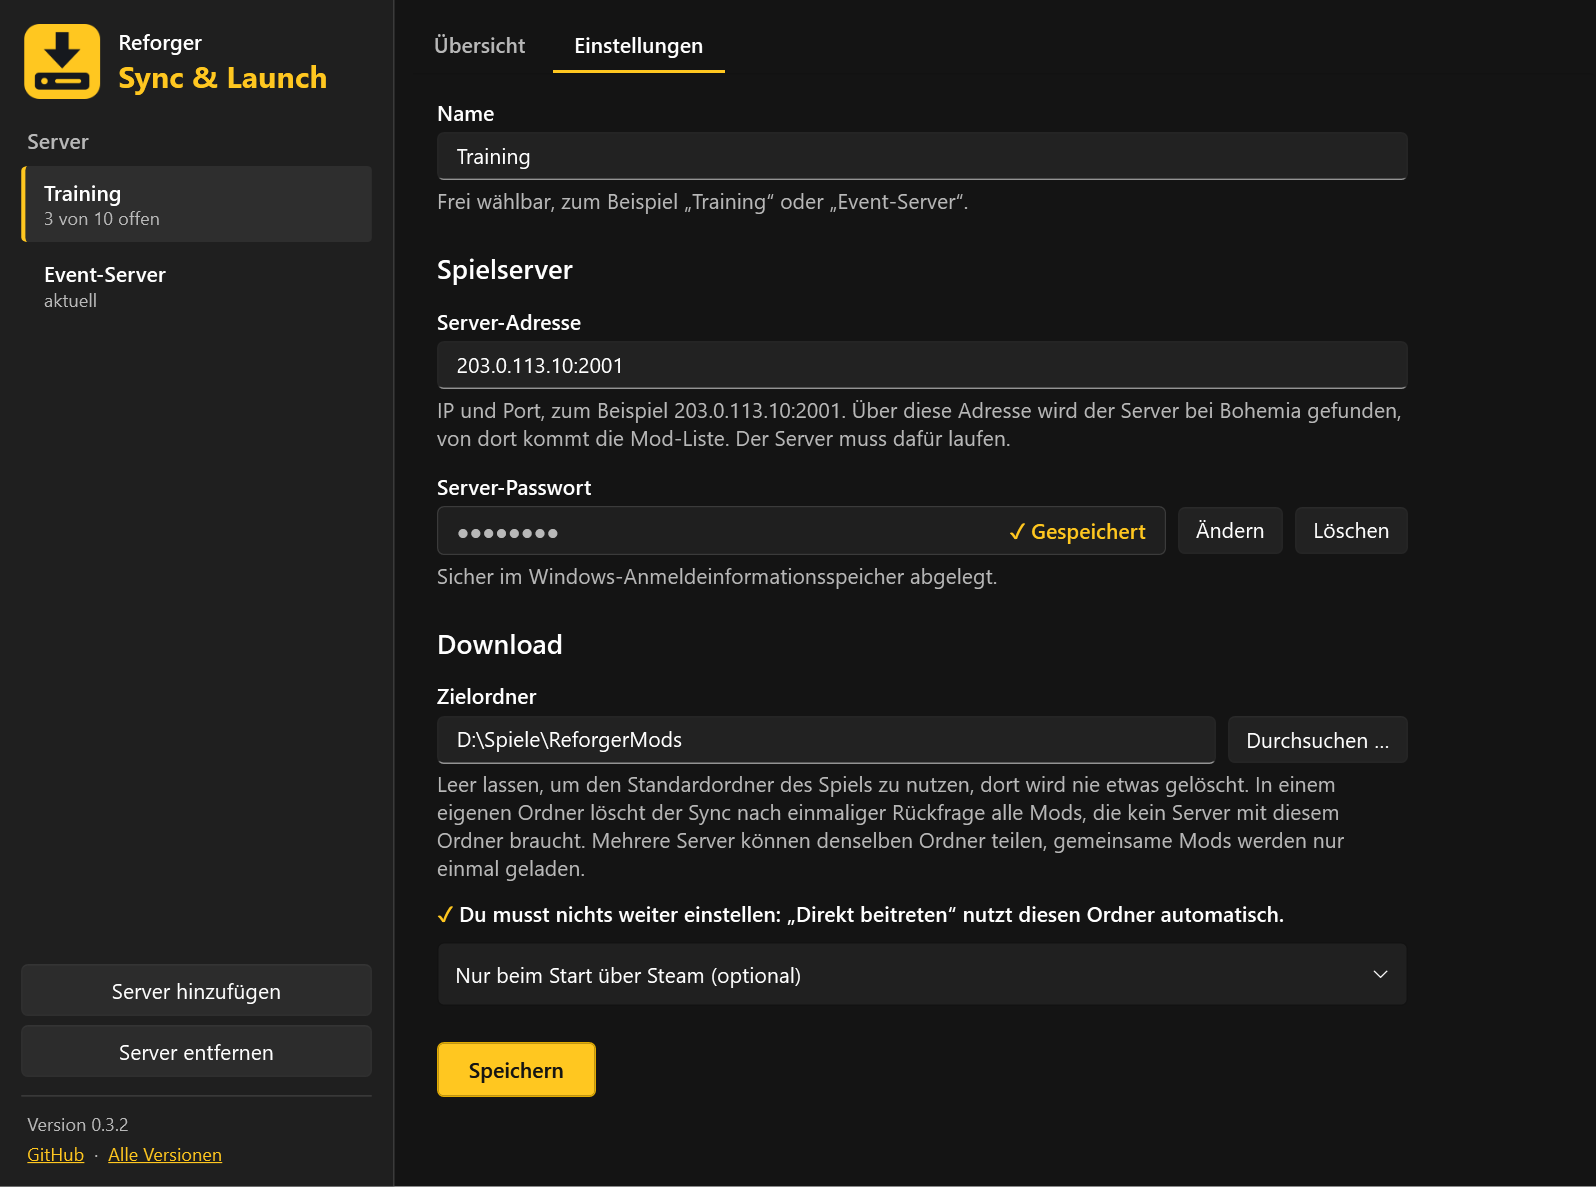
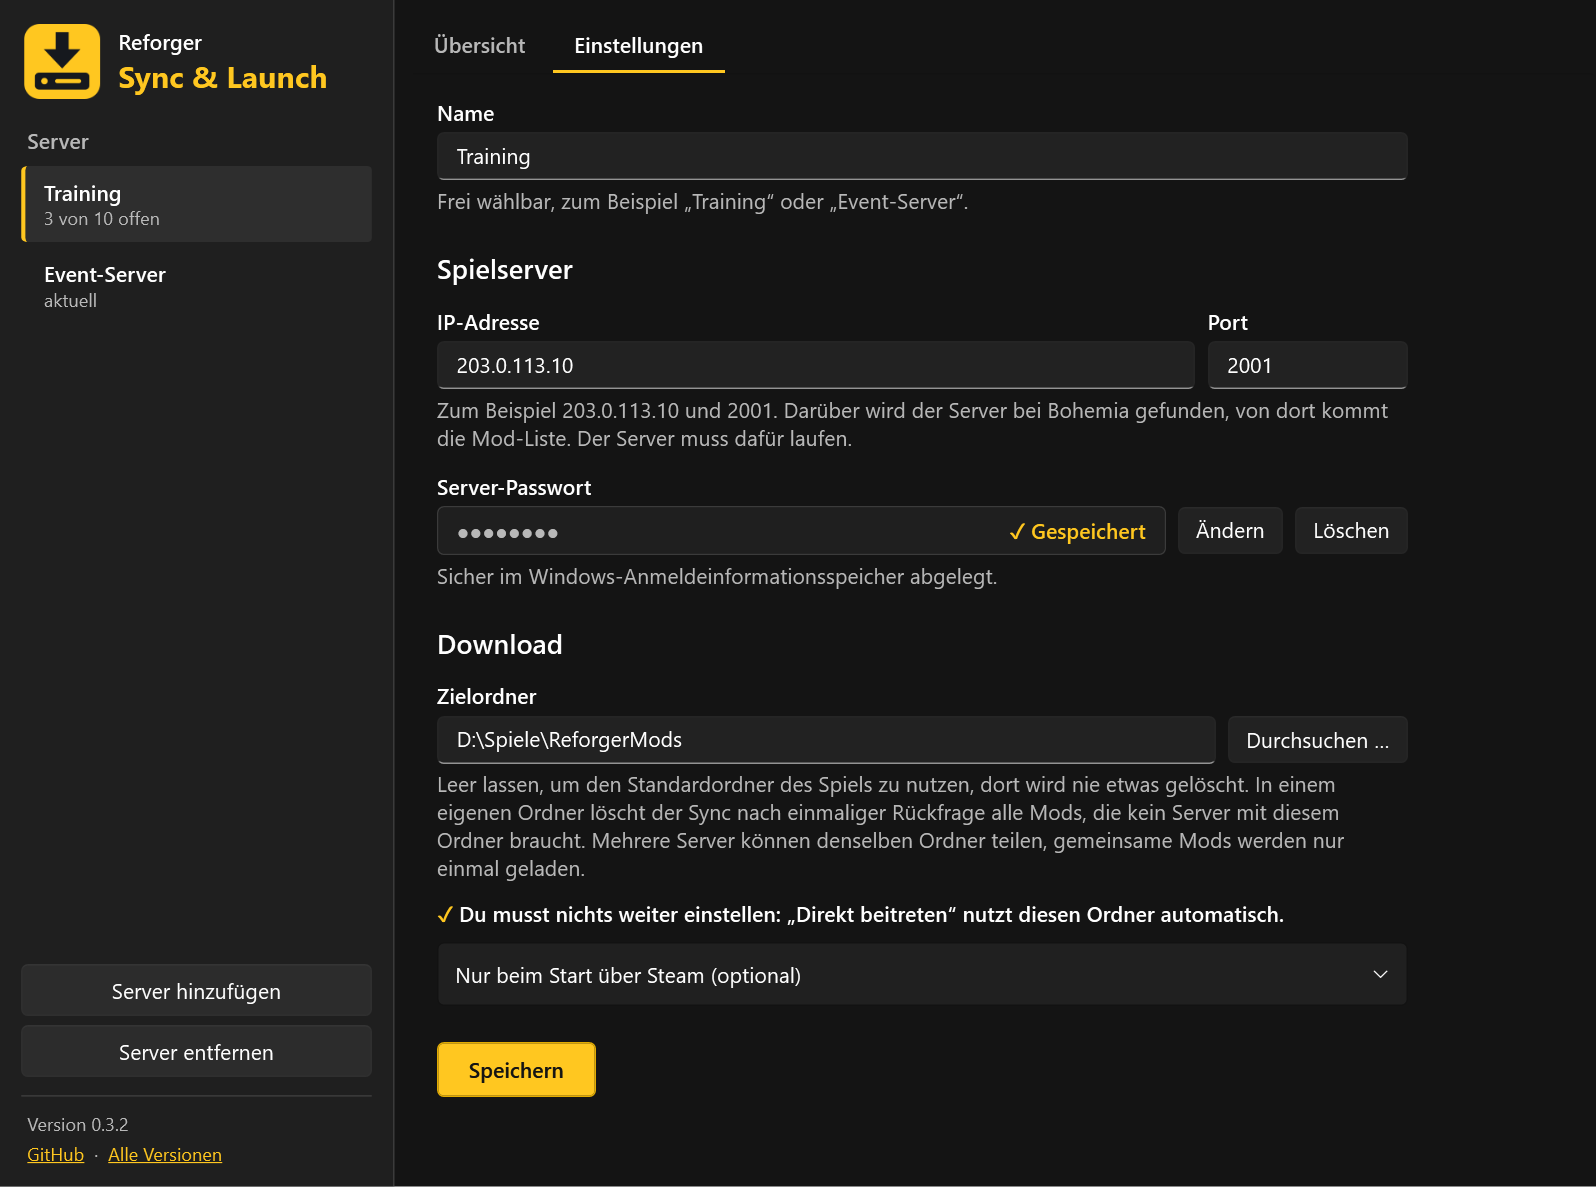
Einstellungen: IP-Adresse und Port in getrennten Feldern
Das Portfeld nimmt nur Ziffern an, IP:Port am Stück wird auf beide Felder
verteilt. Die Prüfung verlangt jetzt eine echte IPv4-Adresse und einen Port
von 1 bis 65535. Gespeichert wird weiter IP:Port, daran hängt das Passwort.

Changed region(s): [[0.2763, 0.3429, 0.8904, 0.3741], [0.2763, 0.2494, 0.3684, 0.2805], [0.7675, 0.2805, 0.7982, 0.3117]]

diff --git a/src/ReforgerModSync.App/MainWindow.xaml b/src/ReforgerModSync.App/MainWindow.xaml
@@ -235,9 +235,23 @@
                         <TextBlock Text="Frei wählbar, zum Beispiel „Training“ oder „Event-Server“." Style="{StaticResource Hint}" />
 
                         <TextBlock Text="Spielserver" Style="{StaticResource SectionTitle}" Margin="0,24,0,0" />
-                        <TextBlock Text="Server-Adresse" Style="{StaticResource FieldLabel}" />
-                        <TextBox Text="{Binding ServerAddress, UpdateSourceTrigger=PropertyChanged}" />
-                        <TextBlock Text="IP und Port, zum Beispiel 203.0.113.10:2001. Über diese Adresse wird der Server bei Bohemia gefunden, von dort kommt die Mod-Liste. Der Server muss dafür laufen." Style="{StaticResource Hint}" />
+                        <Grid>
+                            <Grid.ColumnDefinitions>
+                                <ColumnDefinition Width="*" />
+                                <ColumnDefinition Width="140" />
+                            </Grid.ColumnDefinitions>
+                            <StackPanel>
+                                <TextBlock Text="IP-Adresse" Style="{StaticResource FieldLabel}" />
+                                <TextBox Text="{Binding ServerIp, UpdateSourceTrigger=PropertyChanged}"
+                                         PreviewTextInput="OnIpTextInput" AutomationProperties.Name="IP-Adresse" />
+                            </StackPanel>
+                            <StackPanel Grid.Column="1" Margin="8,0,0,0">
+                                <TextBlock Text="Port" Style="{StaticResource FieldLabel}" />
+                                <TextBox x:Name="PortInput" Text="{Binding ServerPort, UpdateSourceTrigger=PropertyChanged}" MaxLength="5"
+                                         PreviewTextInput="OnPortTextInput" AutomationProperties.Name="Port" />
+                            </StackPanel>
+                        </Grid>
+                        <TextBlock Text="Zum Beispiel 203.0.113.10 und 2001. Darüber wird der Server bei Bohemia gefunden, von dort kommt die Mod-Liste. Der Server muss dafür laufen." Style="{StaticResource Hint}" />
 
                         <TextBlock Text="Server-Passwort" Style="{StaticResource FieldLabel}" />
                         <!-- Die Punkte sind reine Anzeige: feste Anzahl, nichts vom echten Passwort, nie in der Eingabe. -->

diff --git a/tests/ReforgerModSync.Core.Tests/ClientTests.cs b/tests/ReforgerModSync.Core.Tests/ClientTests.cs
@@ -173,8 +173,79 @@ public class ClientTests
     [InlineData("203.0.113.10", false)]
     [InlineData("", false)]
     [InlineData(null, false)]
+    [InlineData("999.1.1.1:2001", false)]
+    [InlineData("203.0.113.10:70000", false)]
+    [InlineData("203.0.113.10:0", false)]
+    [InlineData("203.0.113.10:", false)]
+    [InlineData(":2001", false)]
     public void Server_address_needs_ip_and_port(string? address, bool valid) =>
         Assert.Equal(valid, ClientArgsBuilder.IsValidServerAddress(address));
+
+    [Theory]
+    [InlineData("0.0.0.0", true)]
+    [InlineData("255.255.255.255", true)]
+    [InlineData(" 203.0.113.10 ", true)]
+    [InlineData("256.1.1.1", false)]
+    [InlineData("1.2.3", false)]
+    [InlineData("1.2.3.4.5", false)]
+    [InlineData("01.2.3.4", false)]
+    [InlineData("server.example.org", false)]
+    [InlineData("", false)]
+    [InlineData(null, false)]
+    public void Ip_must_be_a_real_ipv4_address(string? ip, bool valid) =>
+        Assert.Equal(valid, ClientArgsBuilder.IsValidIp(ip));
+
+    [Theory]
+    [InlineData("1", true)]
+    [InlineData("2001", true)]
+    [InlineData("65535", true)]
+    [InlineData("0", false)]
+    [InlineData("65536", false)]
+    [InlineData("abc", false)]
+    [InlineData("", false)]
+    [InlineData(null, false)]
+    public void Port_must_be_in_range(string? port, bool valid) =>
+        Assert.Equal(valid, ClientArgsBuilder.IsValidPort(port));
+
+    [Theory]
+    [InlineData("203.0.113.10:2001", "203.0.113.10", "2001")]
+    [InlineData(" 203.0.113.10:2001 ", "203.0.113.10", "2001")]
+    [InlineData("203.0.113.10", "203.0.113.10", "")]
+    [InlineData("203.0.113.10:", "203.0.113.10", "")]
+    [InlineData("", "", "")]
+    [InlineData(null, "", "")]
+    public void Splits_address_for_the_input_fields(string? address, string ip, string port) =>
+        Assert.Equal((ip, port), ClientArgsBuilder.SplitServerAddress(address));
+
+    [Theory]
+    [InlineData("203.0.113.10", "2001", "203.0.113.10:2001")]
+    [InlineData(" 203.0.113.10 ", " 2001 ", "203.0.113.10:2001")]
+    [InlineData("203.0.113.10", "02001", "203.0.113.10:2001")]
+    [InlineData("203.0.113.10", "", "203.0.113.10:")]
+    [InlineData("", "", null)]
+    [InlineData(null, null, null)]
+    public void Combines_fields_to_the_stored_address(string? ip, string? port, string? expected) =>
+        Assert.Equal(expected, ClientArgsBuilder.CombineServerAddress(ip, port));
+
+    [Theory]
+    [InlineData("203.0.113.10:2001")]
+    [InlineData("1.1.1.1:65535")]
+    public void Split_and_combine_keep_a_saved_address_unchanged(string address)
+    {
+        // Das Passwort hängt an diesem Wert. Ändert er sich beim Laden, ginge die Zuordnung verloren.
+        var (ip, port) = ClientArgsBuilder.SplitServerAddress(address);
+        Assert.Equal(address, ClientArgsBuilder.CombineServerAddress(ip, port));
+    }
+
+    [Theory]
+    [InlineData("2001", "2001")]
+    [InlineData("20x01 ", "2001")]
+    [InlineData("abc", "")]
+    [InlineData("123456789", "12345")]
+    [InlineData("", "")]
+    [InlineData(null, "")]
+    public void Port_field_keeps_only_digits(string? input, string expected) =>
+        Assert.Equal(expected, ClientArgsBuilder.CleanPortInput(input));
 
     private static void AssertValue(IReadOnlyList<string> args, string name, string value) =>
         Assert.Equal(value, args[args.ToList().IndexOf(name) + 1]);

diff --git a/src/ReforgerModSync.Core/Client/ClientArgsBuilder.cs b/src/ReforgerModSync.Core/Client/ClientArgsBuilder.cs
@@ -70,8 +70,45 @@ public static partial class ClientArgsBuilder
         string.Join(' ', arguments.Select(argument => argument.Contains(' ') ? $"\"{argument}\"" : argument));
 
     /// <summary>Nur IP und Port: Ein Hostname wird im Backend nicht gefunden.</summary>
-    public static bool IsValidServerAddress(string? address) =>
-        address is not null && ServerAddressRegex().IsMatch(address.Trim());
+    public static bool IsValidServerAddress(string? address)
+    {
+        var (ip, port) = SplitServerAddress(address);
+        return IsValidIp(ip) && IsValidPort(port);
+    }
+
+    public static bool IsValidIp(string? ip) =>
+        ip is not null && IpRegex().IsMatch(ip.Trim());
+
+    public static bool IsValidPort(string? port) =>
+        int.TryParse(port?.Trim(), out var number) && number is >= 1 and <= 65535;
+
+    /// <summary>Zerlegt <c>IP:Port</c> für die Eingabefelder. Ohne Doppelpunkt ist der Port leer.</summary>
+    public static (string Ip, string Port) SplitServerAddress(string? address)
+    {
+        var text = address?.Trim() ?? "";
+        var separator = text.LastIndexOf(':');
+        return separator < 0 ? (text, "") : (text[..separator].Trim(), text[(separator + 1)..].Trim());
+    }
+
+    /// <summary>Gespeichert wird immer <c>IP:Port</c>, daran hängt auch das Passwort. <c>null</c>: beide Felder leer.</summary>
+    public static string? CombineServerAddress(string? ip, string? port)
+    {
+        var cleanIp = ip?.Trim() ?? "";
+        var cleanPort = port?.Trim() ?? "";
+        if (cleanIp.Length == 0 && cleanPort.Length == 0)
+        {
+            return null;
+        }
+
+        return $"{cleanIp}:{(int.TryParse(cleanPort, out var number) ? number.ToString() : cleanPort)}";
+    }
+
+    /// <summary>Lässt im Portfeld nur Ziffern zu, auch beim Einfügen, und höchstens die fünf eines gültigen Ports.</summary>
+    public static string CleanPortInput(string? input)
+    {
+        var digits = new string((input ?? "").Where(char.IsAsciiDigit).ToArray());
+        return digits.Length > 5 ? digits[..5] : digits;
+    }
 
     /// <summary>
     /// Ein eigenes Profil lässt die Einstellungen des Spielers unberührt, ändert aber auch den
@@ -103,6 +140,6 @@ public static partial class ClientArgsBuilder
         ];
     }
 
-    [GeneratedRegex(@"^(\d{1,3}\.){3}\d{1,3}:\d{1,5}$")]
-    private static partial Regex ServerAddressRegex();
+    [GeneratedRegex(@"^((25[0-5]|2[0-4]\d|1\d\d|[1-9]?\d)\.){3}(25[0-5]|2[0-4]\d|1\d\d|[1-9]?\d)$")]
+    private static partial Regex IpRegex();
 }

diff --git a/src/ReforgerModSync.App/ProfileViewModel.cs b/src/ReforgerModSync.App/ProfileViewModel.cs
@@ -22,7 +22,7 @@ public sealed partial class ProfileViewModel : ObservableObject
         Id = saved?.Id ?? Guid.NewGuid().ToString("N");
         Saved = saved is null ? null : saved with { DownloadDir = AddonPaths.NormalizeDownloadDir(saved.DownloadDir) };
         _name = saved?.Name ?? "";
-        _serverAddress = saved?.ServerAddress ?? "";
+        (_serverIp, _serverPort) = ClientArgsBuilder.SplitServerAddress(saved?.ServerAddress);
         _downloadDir = Saved?.DownloadDir ?? "";
     }
 
@@ -35,7 +35,43 @@ public sealed partial class ProfileViewModel : ObservableObject
     [NotifyPropertyChangedFor(nameof(DisplayName))]
     private string _name;
 
-    [ObservableProperty] private string _serverAddress;
+    [ObservableProperty]
+    [NotifyPropertyChangedFor(nameof(ServerAddress))]
+    private string _serverIp;
+
+    [ObservableProperty]
+    [NotifyPropertyChangedFor(nameof(ServerAddress))]
+    private string _serverPort;
+
+    public string ServerAddress => ClientArgsBuilder.CombineServerAddress(ServerIp, ServerPort) ?? "";
+
+    /// <summary>Wer die Adresse am Stück als <c>IP:Port</c> einfügt, bekommt sie auf beide Felder verteilt.</summary>
+    partial void OnServerIpChanged(string value)
+    {
+        var clean = new string(value.Where(character => !char.IsWhiteSpace(character)).ToArray());
+        if (clean.Contains(':'))
+        {
+            var (ip, port) = ClientArgsBuilder.SplitServerAddress(clean);
+            ServerIp = ip;
+            if (port.Length > 0)
+            {
+                ServerPort = port;
+            }
+        }
+        else if (clean != value)
+        {
+            ServerIp = clean;
+        }
+    }
+
+    partial void OnServerPortChanged(string value)
+    {
+        var clean = ClientArgsBuilder.CleanPortInput(value);
+        if (clean != value)
+        {
+            ServerPort = clean;
+        }
+    }
 
     [ObservableProperty]
     [NotifyPropertyChangedFor(nameof(SteamLaunchOptions), nameof(HasDownloadDir), nameof(DownloadDirDisplay))]
@@ -91,7 +127,7 @@ public sealed partial class ProfileViewModel : ObservableObject
     {
         Id = Id,
         Name = Name.Trim(),
-        ServerAddress = string.IsNullOrWhiteSpace(ServerAddress) ? null : ServerAddress.Trim(),
+        ServerAddress = ClientArgsBuilder.CombineServerAddress(ServerIp, ServerPort),
         DownloadDir = AddonPaths.NormalizeDownloadDir(DownloadDir),
     };
 }

diff --git a/src/ReforgerModSync.App/MainWindow.xaml.cs b/src/ReforgerModSync.App/MainWindow.xaml.cs
@@ -3,6 +3,7 @@ using System.Diagnostics;
 using System.IO;
 using System.Windows;
 using System.Windows.Controls;
+using System.Windows.Input;
 using System.Windows.Threading;
 using Microsoft.Win32;
 using ReforgerModSync.Core;
@@ -71,6 +72,23 @@ public partial class MainWindow : Window
             button.IsEnabled = true;
         }
     }
+
+    /// <summary>Wer aus Gewohnheit <c>IP:Port</c> tippt, landet mit dem Doppelpunkt im Portfeld.</summary>
+    private void OnIpTextInput(object sender, TextCompositionEventArgs e)
+    {
+        if (e.Text == ":")
+        {
+            PortInput.Focus();
+            PortInput.SelectAll();
+            e.Handled = true;
+            return;
+        }
+
+        e.Handled = !e.Text.All(character => char.IsAsciiDigit(character) || character == '.');
+    }
+
+    private void OnPortTextInput(object sender, TextCompositionEventArgs e) =>
+        e.Handled = !e.Text.All(char.IsAsciiDigit);
 
     private void OnChangePasswordClick(object sender, RoutedEventArgs e)
     {

diff --git a/src/ReforgerModSync.App/MainViewModel.cs b/src/ReforgerModSync.App/MainViewModel.cs
@@ -157,12 +157,19 @@ public sealed partial class MainViewModel(
             return false;
         }
 
-        var saved = profile.ToProfile();
-        if (!ClientArgsBuilder.IsValidServerAddress(saved.ServerAddress))
+        if (!ClientArgsBuilder.IsValidIp(profile.ServerIp))
         {
-            ShowSettingsMessage(profile, "Bitte die Server-Adresse als IP und Port eintragen, zum Beispiel 203.0.113.10:2001.", isError: true);
+            ShowSettingsMessage(profile, "Bitte die IP-Adresse des Servers eintragen, zum Beispiel 203.0.113.10.", isError: true);
             return false;
         }
+
+        if (!ClientArgsBuilder.IsValidPort(profile.ServerPort))
+        {
+            ShowSettingsMessage(profile, "Bitte den Port des Servers eintragen, eine Zahl von 1 bis 65535, zum Beispiel 2001.", isError: true);
+            return false;
+        }
+
+        var saved = profile.ToProfile();
 
         var previous = profile.Saved;
         profile.Saved = saved;

diff --git a/README.md b/README.md
@@ -21,7 +21,7 @@ Den Download übernimmt dein installierter Arma-Reforger-Client mit einer kleine
 
 - Windows 10 oder 11, 64 Bit
 - Steam läuft, Arma Reforger ist installiert
-- Adresse (IP:Port) und gegebenenfalls Passwort des Servers
+- IP-Adresse, Port und gegebenenfalls Passwort des Servers
 - Zum Prüfen und Synchronisieren muss der Server laufen, sonst wird sein Eintrag bei Bohemia nicht gefunden
 
 ## Installation
@@ -43,7 +43,8 @@ Alles wird im Reiter **Einstellungen** eingetragen:
 | Feld | Bedeutung |
 |---|---|
 | **Name** | Frei wählbar, zum Beispiel „Training“ |
-| **Server-Adresse** | IP und Port des Spielservers, zum Beispiel `203.0.113.10:2001` |
+| **IP-Adresse** | IP des Spielservers, zum Beispiel `203.0.113.10`. Fügst du `IP:Port` am Stück ein, füllt die App beide Felder |
+| **Port** | Port des Spielservers, zum Beispiel `2001`. Das Feld nimmt nur Ziffern an |
 | **Server-Passwort** | Leer lassen, wenn der Server keines hat. Ein gespeichertes Passwort erscheint als Punkte mit „✓ Gespeichert“ und lässt sich über **Ändern** und **Löschen** bearbeiten |
 | **Zielordner** | Wohin die Mods geladen werden. Leer lassen, um den Standardordner des Spiels zu nutzen |
 
